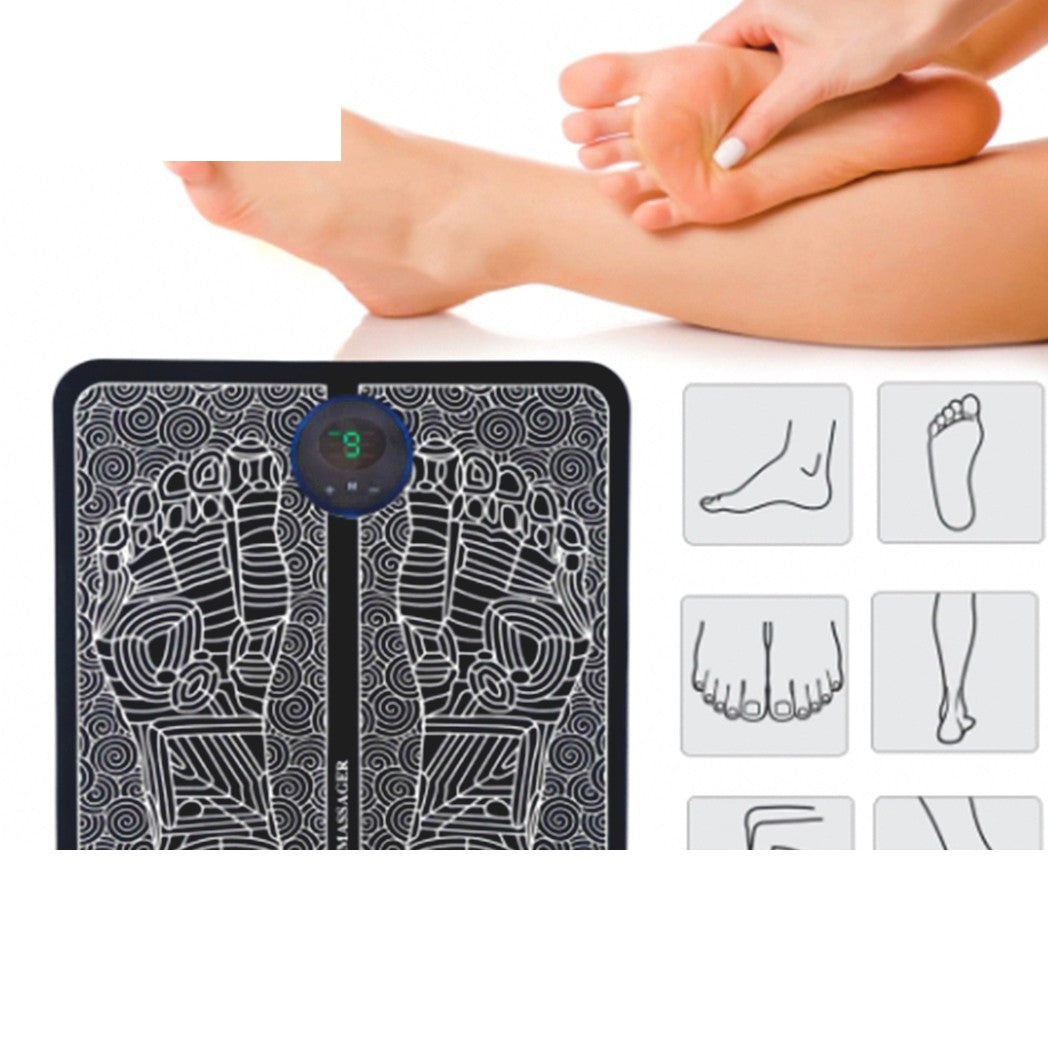
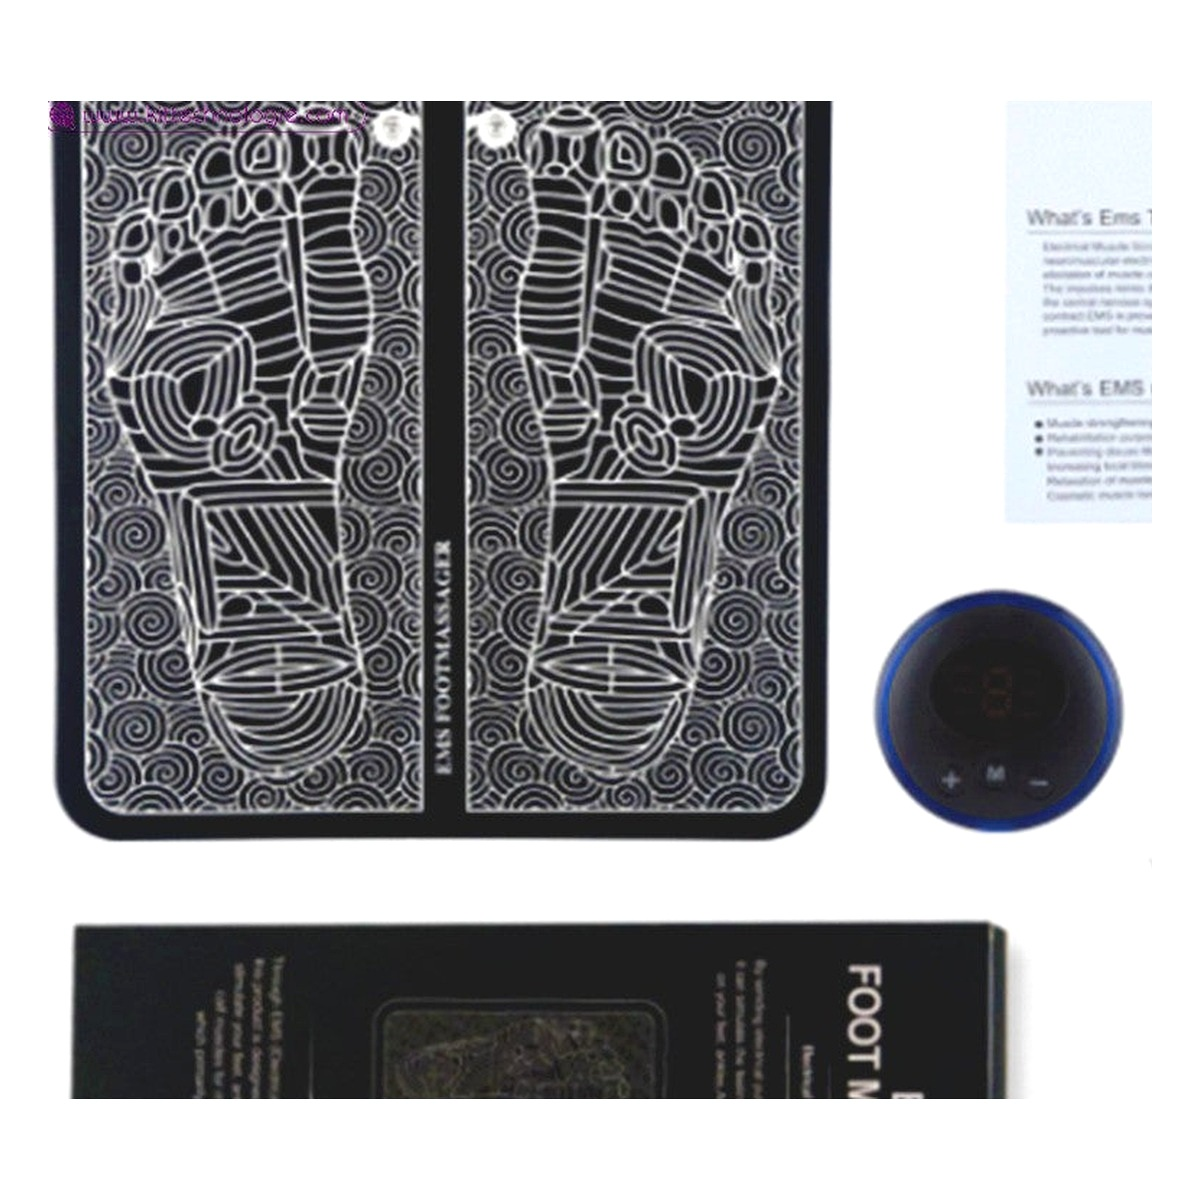
Replace product hero with clean kit photo and add image gallery.
Crop supplier images to remove watermarks; show kit flat-lay as main image with lifestyle thumbnail switcher.

diff --git a/index.html b/index.html
@@ -161,20 +161,28 @@
     /* Product visual */
     .product-stage {
       position: relative;
-      background: linear-gradient(160deg, #e0f2fe 0%, #f0f9ff 50%, #fff 100%);
+      background: #fff;
       border-radius: var(--radius-lg);
-      padding: 1.5rem;
-      border: 1px solid #bae6fd;
+      padding: 1rem;
+      border: 1px solid var(--line);
       box-shadow: var(--shadow-lg);
     }
-    .product-stage::before {
-      content: ''; position: absolute; inset: 1rem;
-      border: 2px dashed rgba(14, 165, 233, .2); border-radius: 20px; pointer-events: none;
-    }
     .product-img {
-      width: 100%; border-radius: 16px;
-      filter: drop-shadow(0 20px 30px rgba(15, 23, 42, .15));
+      width: 100%; border-radius: 14px;
+      background: #f8fafc;
+      object-fit: contain;
+      aspect-ratio: 1;
     }
+    .product-thumbs {
+      display: flex; gap: .55rem; margin-top: .75rem;
+    }
+    .product-thumbs button {
+      flex: 1; border: 2px solid var(--line); border-radius: 10px;
+      padding: 0; overflow: hidden; background: #f8fafc; cursor: pointer;
+      transition: border-color .15s;
+    }
+    .product-thumbs button.active { border-color: var(--brand); }
+    .product-thumbs img { width: 100%; aspect-ratio: 1; object-fit: cover; display: block; }
     .float-tag {
       position: absolute; background: var(--surface);
       border: 1px solid var(--line); border-radius: 12px;
@@ -487,7 +495,15 @@
     </div>
 
     <div class="product-stage">
-      <img src="ems-product.jpg" alt="EMS Foot Massager – tapis masseur électrique des pieds" class="product-img" loading="eager">
+      <img src="ems-product.jpg" alt="EMS Foot Massager – kit complet tapis, télécommande et accessoires" class="product-img" id="main-product-img" loading="eager">
+      <div class="product-thumbs">
+        <button type="button" class="active" onclick="setProductImage('ems-product.jpg', this)" aria-label="Kit complet">
+          <img src="ems-product.jpg" alt="Kit complet">
+        </button>
+        <button type="button" onclick="setProductImage('ems-lifestyle.jpg', this)" aria-label="Utilisation">
+          <img src="ems-lifestyle.jpg" alt="Utilisation sur les pieds">
+        </button>
+      </div>
       <div class="float-tag t1"><span class="dot"></span> En stock · Expédition rapide</div>
       <div class="float-tag t2">⭐ 4.8/5 · 312 avis</div>
     </div>
@@ -841,6 +857,12 @@
     document.getElementById('sum-total').textContent = PRICES[qty] + ' DT';
     document.getElementById('sticky-price').textContent = PRICES[qty] + ' DT';
     document.querySelectorAll('.bundle').forEach(b => b.classList.toggle('selected', parseInt(b.dataset.qty) === qty));
+  }
+
+  function setProductImage(src, btn) {
+    document.getElementById('main-product-img').src = src;
+    document.querySelectorAll('.product-thumbs button').forEach(b => b.classList.remove('active'));
+    btn.classList.add('active');
   }
 
   function showToast(msg) {